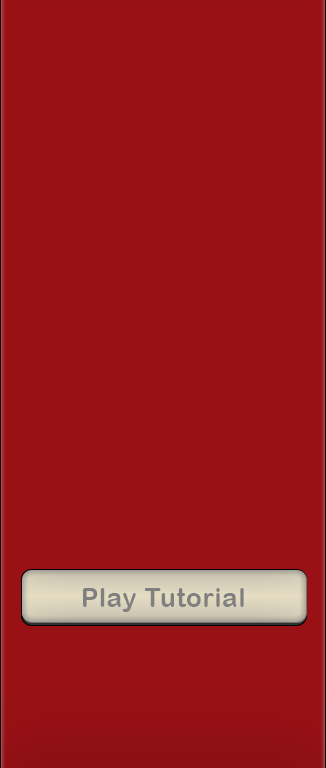
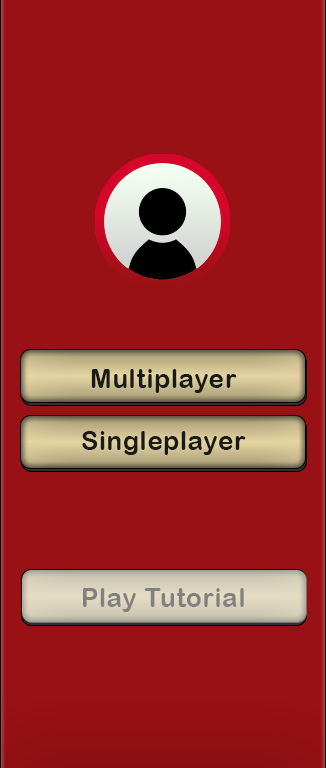
#46 Main Menu created

Changed region(s): [[0.0613, 0.4375, 0.9509, 0.625], [0.2761, 0.1875, 0.7055, 0.375]]

diff --git a/src/main/java/com/scrab5/ui/MainMenuController.java b/src/main/java/com/scrab5/ui/MainMenuController.java
@@ -1,0 +1,63 @@
+package com.scrab5.ui;
+
+import java.io.IOException;
+import java.net.URL;
+import java.util.ResourceBundle;
+import javafx.fxml.FXML;
+import javafx.fxml.Initializable;
+import javafx.scene.image.ImageView;
+import javafx.scene.input.MouseEvent;
+
+/*
+ * @author apilgrim
+ */
+
+public class MainMenuController extends Controller implements Initializable {
+
+  @FXML
+  private ImageView multiplayerButton;
+  @FXML
+  private ImageView singleplayerButton;
+  @FXML
+  private ImageView tutorialButton;
+
+  @Override
+  public void initialize(URL arg0, ResourceBundle arg1) {
+    // TODO Auto-generated method stub
+
+  }
+
+
+  /**
+   * @author Aaron
+   * @param event
+   * @throws IOException
+   */
+  @FXML
+  private void multiplayerClicked(MouseEvent event) throws IOException {
+    App.setRoot("AccountCreation");
+  }
+
+  /**
+   * @author Aaron
+   * @param event
+   * @throws IOException
+   */
+  @FXML
+  private void singleplayerClicked(MouseEvent event) throws IOException {
+    App.setRoot("AccountCreation");
+
+  }
+
+  /**
+   * @author Aaron
+   * @param event
+   * @throws IOException
+   */
+  @FXML
+  private void tutorialClicked(MouseEvent event) throws IOException {
+    App.setRoot("AccountCreation");
+
+  }
+
+}

diff --git a/src/main/java/com/scrab5/ui/App.java b/src/main/java/com/scrab5/ui/App.java
@@ -16,7 +16,7 @@ public class App extends Application {
 
   @Override
   public void start(Stage stage) throws IOException {
-    scene = new Scene(loadFXML("Profile"), 1360, 768);
+    scene = new Scene(loadFXML("MainMenu"), 1360, 768);
     stage.setScene(scene);
     stage.setTitle("Scrabble - Group 5");
     stage.setResizable(false);
